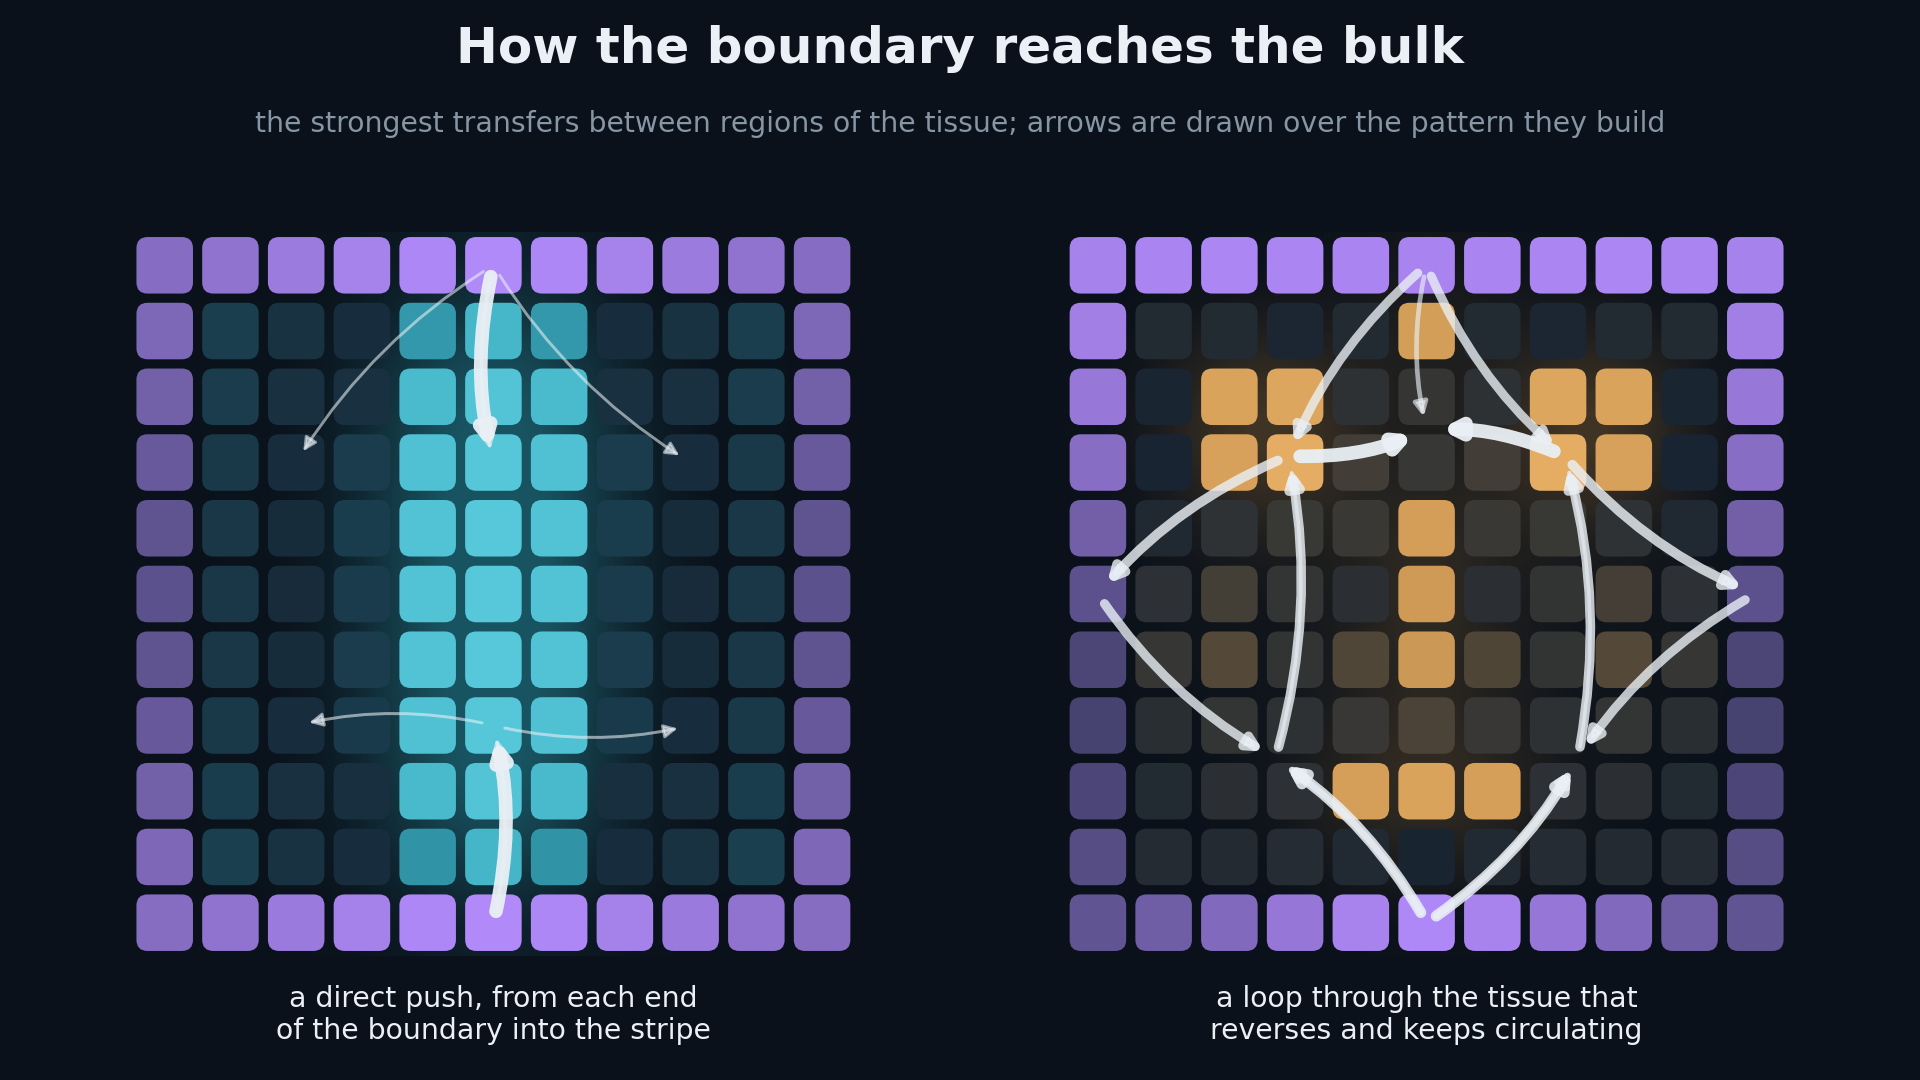
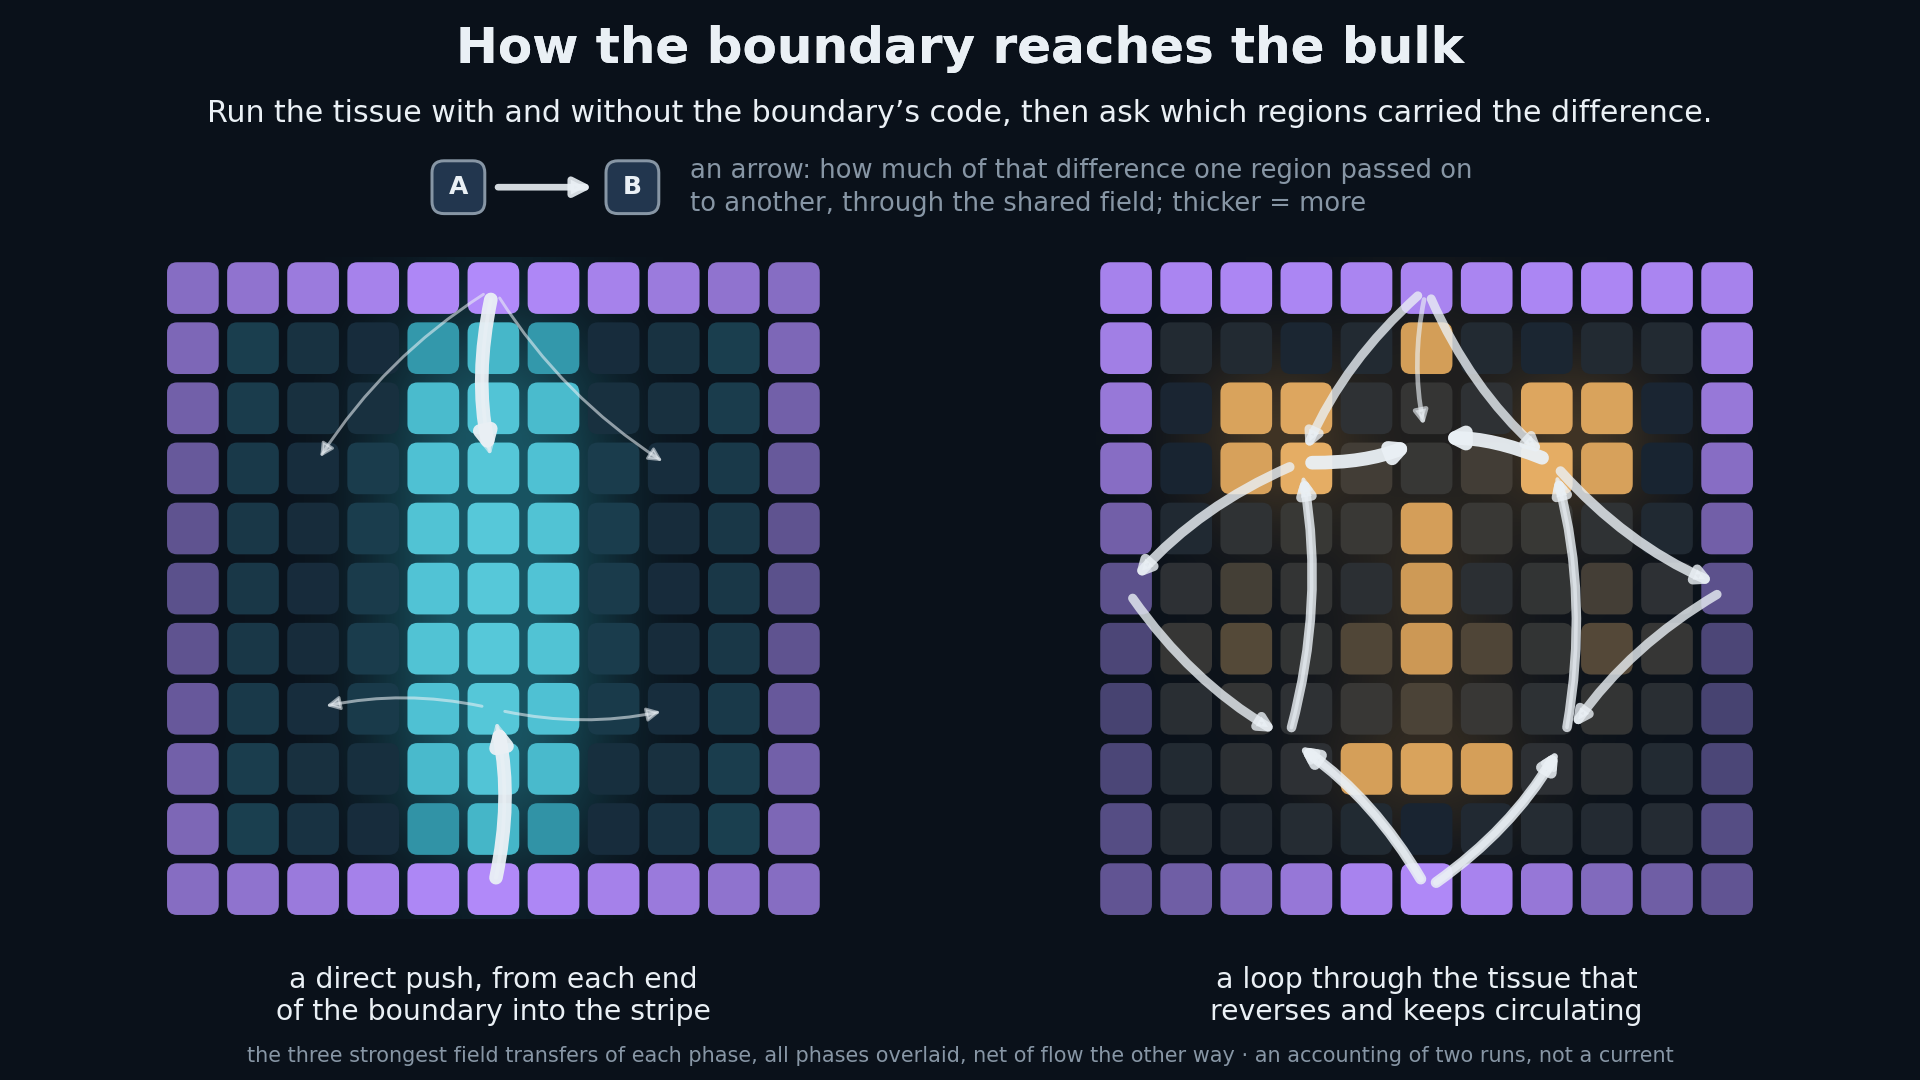
Explain the relay nets in the notes and add a key for reading an arrow to figure 6

diff --git a/buildCanalizationTalkEssence11x11.py b/buildCanalizationTalkEssence11x11.py
@@ -527,7 +527,7 @@ if 'push' in parts:
                 both.append(twin)
         return both
     figure = newFigure()
-    grid = figure.add_gridspec(1, 2, left=0.04, right=0.96, top=0.80, bottom=0.10, wspace=0.12)
+    grid = figure.add_gridspec(1, 2, left=0.04, right=0.96, top=0.775, bottom=0.135, wspace=0.12)
     for column, key in enumerate(('stripe', 'face')):
         target = TARGETS[key]
         axis = figure.add_subplot(grid[0, column])
@@ -539,9 +539,20 @@ if 'push' in parts:
             (x0, y0), (x1, y1) = positions[key][sender], positions[key][receiver]
             axis.add_patch(FancyArrowPatch((x0, y0), (x1, y1), arrowstyle='-|>,head_length=0.55,head_width=0.28', mutation_scale=12, lw=1.2 + 7.0 * value / scale, color=INK_LIGHT, alpha=0.55 + 0.4 * value / scale,
                                            shrinkA=7, shrinkB=8, connectionstyle='arc3,rad=0.12', zorder=6))
-        caption(figure, 0.257 if key == 'stripe' else 0.743, 0.06, 'a direct push, from each end\nof the boundary into the stripe' if key == 'stripe' else 'a loop through the tissue that\nreverses and keeps circulating', size=17, colour=INK_LIGHT)
+        caption(figure, 0.257 if key == 'stripe' else 0.743, 0.078, 'a direct push, from each end\nof the boundary into the stripe' if key == 'stripe' else 'a loop through the tissue that\nreverses and keeps circulating', size=17, colour=INK_LIGHT)
     figure.text(0.5, 0.955, 'How the boundary reaches the bulk', ha='center', va='center', fontsize=30, fontweight='bold')
-    figure.text(0.5, 0.885, 'the strongest transfers between regions of the tissue; arrows are drawn over the pattern they build', ha='center', va='center', fontsize=17, color=MUTED)
+    # how to read an arrow, compressed: two runs, their difference, and what an arrow says about it
+    canvas = figure.add_axes([0, 0, 1, 1], zorder=0)
+    canvas.set_xlim(0, 16); canvas.set_ylim(0, 9); canvas.axis('off')
+    canvas.text(8, 8.05, 'Run the tissue with and without the boundary\u2019s code, then ask which regions carried the difference.', ha='center', va='center', fontsize=18, color=INK_LIGHT)
+    keyLeft = 3.6
+    for x, letter in ((keyLeft, 'A'), (keyLeft + 1.45, 'B')):
+        canvas.add_patch(FancyBboxPatch((x, 7.22), 0.44, 0.44, boxstyle='round,pad=0,rounding_size=0.1', fc=tuple(BASE * 1.6), ec=MUTED, lw=1.8))
+        canvas.text(x + 0.22, 7.44, letter, ha='center', va='center', fontsize=15, color=INK_LIGHT, fontweight='bold')
+    arrowBetween(canvas, (keyLeft + 0.55, 7.44), (keyLeft + 1.34, 7.44), colour=INK_LIGHT, lw=4.0, alpha=0.9)
+    canvas.text(keyLeft + 2.15, 7.44, 'an arrow: how much of that difference one region passed on\nto another, through the shared field; thicker = more', ha='left', va='center', fontsize=15.5, color=MUTED, linespacing=1.35)
+    canvas.text(8, 0.2, 'the three strongest field transfers of each phase, all phases overlaid, net of flow the other way \u00b7 an accounting of two runs, not a current', ha='center', va='center', fontsize=12.5, color=MUTED)
+    figure.text(0.5, 0.955, 'How the boundary reaches the bulk', ha='center', va='center', fontsize=30, fontweight='bold')
     savePicture(figure, '6_thePush.png')
 
 # ================================================================================================================== 7 the imprint lingers, then the tissue wanders off

diff --git a/presentation/TALK_NOTES.md b/presentation/TALK_NOTES.md
@@ -107,6 +107,28 @@ appears, although the information is delocalised, not destroyed (held-out readou
 
 The stripe has no write or latch phase in the relay's sense: it is written in the hold and read in the clear phase, where its cells outlast the rest in the window. (Its interior conductance does sweep a second time, trough 1130 and second peak 1807, long after the stripe has been read.) The curves in figures and movies are replays of the trained codes (`data/canalizationTalkConductance1888Hold301.npz`); the face's replay reproduces the report's numbers (first peak 1.421, release 1.317, trough at 585, second peak at 1765).
 
+**How the relay nets are built, and what an arrow means.** The nets of figure 6 and movie D come from the Relay Loop and Stripes reports. There "transfer" is a technical term, not a current.
+
+*The question a net answers.* The boundary code makes the trained run differ from a run without it. At the readout the target's cells end up with a higher polarising conductance than the rest of the interior (the selectivity gap: 0.40 G_ref for the face at the write peak, 0.46 for the stripe at its readout). The relay asks which parts of the tissue carried that difference, and in which phase.
+
+*How a net is built.*
+1. Two runs of the same frozen tissue: the trained run (the code held for 301 iterations) and a baseline, the same tissue with the tissue-wide extra voltage update the clamp performs on every hold iteration (a side effect of how the clamp is implemented) but with the ring never held. Keeping that update in the baseline isolates what the forty held values add. D(n) is the difference between the two runs in every cell's voltage and polarising conductance at iteration n.
+2. The model's one-step map gives an exact relation, D(n+1) = J(n) D(n) + s(n). J(n) is the step's Jacobian averaged along the straight line from the baseline state to the trained state (Gauss–Legendre quadrature, refined at clip bounds and field turns until the identity closes to 1e-6); s(n) is what the trained map does differently at the baseline state (non-zero only during the hold). Nothing is linearised: it decomposes the actual difference, so the chaos over two thousand iterations does not enter.
+3. A readout: the selectivity, the mean G_pol / G_ref of the target's cells (the face's 14 feature cells, the stripe's 27 cells) minus the mean of the other interior cells, at the primary moment (face: the write peak, iteration 1765; stripe: its readout, 504).
+4. Walking backward from the readout gives, for every iteration, how much a deviation in each cell (voltage and conductance) matters for the readout later (the adjoint). Multiplied by the actual deviation it is the cell's flux, how much of the final difference that cell carries at that moment; after the hold the fluxes sum to the final difference at every iteration (checked).
+5. An edge from cell j to cell i in one step is the adjoint of i times the step's response of i to j times j's deviation: j's deviation, passed on by that step to i, weighted by how much i's deviation matters for the readout. It is split by the channel the start-of-step voltage entered through: the field (the shared extracellular field, at any distance) or contact (gap junctions). A cell's own terms are excluded.
+6. Cells are grouped into blocks (face: 11, namely ring top, bottom, left and right, eyes, nose, mouth and four background quadrants; stripe: 10, namely the four ring sides, stripe upper and lower, and each flank upper and lower). The net transfer between blocks A and B is the sum of the cell edges from B into A minus those from A into B, summed over the 50-iteration windows of a phase (face: flood windows 0–5, clear 6–11, write 12–35; stripe: flood to the release, clear to the readout). Positive means A to B in the canonical order (left or centre block first). Left–right twins are equal to about 1e-8, so one is computed and the other is drawn as its mirror.
+
+*What an arrow means.* "A to B in phase X": during phase X, the deviation the boundary caused in region A, passed on to region B through the shared field, contributed this much (in units of G_ref) to the target's final conductance lead, net of any flow the other way; thickness is that size. The trained face's biggest field transfers: flood, ring top to the top-left background 0.11 (and to the eyes 0.04); clear, top-left background to the eyes 0.19 (the report's "the top corners drain into the eyes"); write, ring bottom to the bottom-left background 0.15. The trained stripe's: flood about 0.04 at each end, clear 0.27 from ring top to stripe upper and from ring bottom to stripe lower, so the stripe's push is mostly delivered just after the release.
+
+*What it is not.* It is not a measured current or a signal that could be cut. It is not a gap-junction current: those are the contact channel, drawn nowhere in the talk's figures, and for the face at most about a fifth the size (0.04 against 0.19). It is not an intervention: it is an exact accounting of two runs, and the interventions are separate experiments (the partial holds of figures 3 and 4, the wall counterfactuals, the module confirmation). It is not a partition of the gap: transfers are signed, many pairs contribute, and opposite flows cancel inside a block net, so within-block movement is hidden. It is one trained code against one baseline and one readout, and it stops at the readout (face: 1765), so nothing is said about the latch phase.
+
+*What the figures draw.* Figure 6 carries a compressed key at the top ("run the tissue with and without the boundary's code, then ask which regions carried the difference"; an A-to-B arrow: "how much of that difference one region passed on to another, through the shared field; thicker = more") and a foot line (the three strongest field transfers of each phase, all phases overlaid, net of flow the other way; an accounting of two runs, not a current). It draws the field channel only, the three biggest net transfers per phase of the trained code (face: flood, clear, write; stripe: flood and clear), direction by sign, mirror twins added, width proportional to size, between block centres over the pattern the run ends with. Movie D draws a different object, the pages' steering lab, which does not rerun the relay: for each knob setting it computes the ring's four region levels (top, upper sides, lower sides, bottom) and averages, with a Gaussian kernel in that space, the top-three sets of the 846 (face) or 499 (stripe) simulated codes. An edge is drawn when at least a quarter (half in `_thresh`) of the nearby codes carry it among their top three in that phase, thicker when more do. So in movie D thickness is how many nearby codes agree, not a transfer size, and the tissue underneath is simulated afresh.
+
+*One sentence for the talk.* "An arrow says how much of the final difference between the steered tissue and the unsteered tissue passed from one region to another, through the shared field, during that phase." If pressed: it is an exact accounting of two runs, not a current, and not an intervention.
+
+*Where it lives (code).* `computeBoundaryHarmonicRelay11x11.py` (the raw relay of one code), `relayLoopNets.py` (`readNet`, the block layouts, the phase windows), `extractRelayLoopFullNets11x11.py`, `assembleRelayLoopSteeringData11x11.py` and `assembleRelayLoopStripesData11x11.py` (the pages' data); the Relay Loop and Stripes reports.
+
 ## 5. Canalization as compression
 
 * **The code is lower-dimensional than the pattern.** 81 interior cells (45 independent under the left–right mirror) are steered by 4 numbers for the face (orders 0–3; more add nothing) and 2 effective numbers for the stripe (a dial and an oval; the tilt is 0.001), a compression of 20–40×.
@@ -176,7 +198,7 @@ In movie A each panel stops at its target's moment (stripe 504, face 2173) becau
 | `movies/C_theImprintLingers.mp4` (16 s) | both tissues run on to 20,000 iterations; a frame lights up whenever the tissue shows a pattern from its code's family, labelled one, two, three stripes or a deformed face | the presented result |
 | `7_theImprintLingers.png` | for each code: family visits (the code, nearby codes, other codes of the same symmetry), how far nearby codes have drifted, and a gallery of family patterns visited | the presented result, as a still |
 | `4_faceNoSinglePart.png` | upper wall alone, lower wall alone, whole boundary | the complex organizer is a distributed key (short) |
-| `6_thePush.png` | strongest transfers over the pattern: a direct push into the stripe, a loop through the face | optional |
+| `6_thePush.png` | strongest transfers (what an arrow means: section 4) over the pattern: a direct push into the stripe, a loop through the face | optional; has the compressed key for reading an arrow (section 4) |
 | `8_thePhases.png` | the phases on the conductance: for each target the mean G_pol / G_ref of its cells (stripe cells, face feature cells) and of the rest of the interior over time (to scale), over the switching window (forced to polarize above, two stable voltages inside, forced to depolarize below), with a lane above marking the hold (iterations 0–301, the boundary's conductance fixed to the code) and the release (after it; a violet dashed line crosses both panels at the release), the phases as tinted stretches named flood, clear, write, latch and a tissue snapshot at the end of each phase underneath; the stripe's curves stop at its readout (504) with a note that it is complete; a two-line note at the foot says what the curves, the shading and the snapshots are | slide 12, before movie D: the nets' coloured edges are these phases |
 | `movies/E_thePhasesOfBuilding.mp4` (16 s) | the same on a clock that gives each phase screen time (flood 3 s, clear 3 s, write 4.5 s, latch 3.5 s): the tissue glyphs run, the two conductance curves grow behind a moving point, the current phase is lit and named with a one-line reading in terms of the conductance, with the same hold / release lane above the curves; the stripe stops at its readout with a frame, the face runs on to 2173 and locks in | slide 12, optional if time is short; figure 8 is the still |
 | `movies/D_theNetAsTheKnobsTurn.mp4` (26 s) | figure 6 animated: each knob is swept from the trained setting to its lowest, to its highest and back, while the arrows (strongest transfers per phase: flood, clear, write) and the pattern follow | optional; how the net depends on the dial. Arrows are the Relay Loop and Stripes pages' own steering-lab estimate (a kernel average over 846 face and 499 stripe simulated codes; thicker = more of the nearby codes carry the edge), not a new simulation per frame; the tissue underneath is simulated afresh at each setting |
@@ -218,6 +240,7 @@ Here the tissue stays frozen and new low-dimensional codes (hold 301) are search
 * *Does the imprint persist to long horizons?* No: the family bias stops at about 3,000 iterations. A faint statistical territory remains for the stripe code's neighbourhood (backup figure 09), none for the face's.
 * *Isn't the lingering just selection?* Partly, because the codes were trained on the first 3,000 iterations. The visits are repeated, long, rare in controls, shared by nearby stripe codes, and absent in the held-out window.
 * *Why does the face linger less than the stripe?* Its pattern is a narrow arrangement the training found as one passage; small changes of the code lose it. The stripe is a generic structure that symmetric codes produce easily, and its code is robust to small changes.
+* *What exactly is an arrow in the relay net?* How much of the final difference between the steered and the unsteered tissue passed from one region to another through the shared field in that phase; an exact accounting of two runs, not a current and not an intervention (section 4).
 * *Is the organizer a mechanism?* No: it organises the stretches of time and the loss of correspondence.
 * *Why is the simple target not the easier one to find?* The stripe's two-wave code was found by 1 restart in 20 (ceiling 2.0), the face's by 14 of 30; under the face's ceiling the stripe needs 11 harmonics.
 * *Does it work for any pattern?* No: the inverted stripe was reached by none of 632 restarts (best overlap 0.70).
